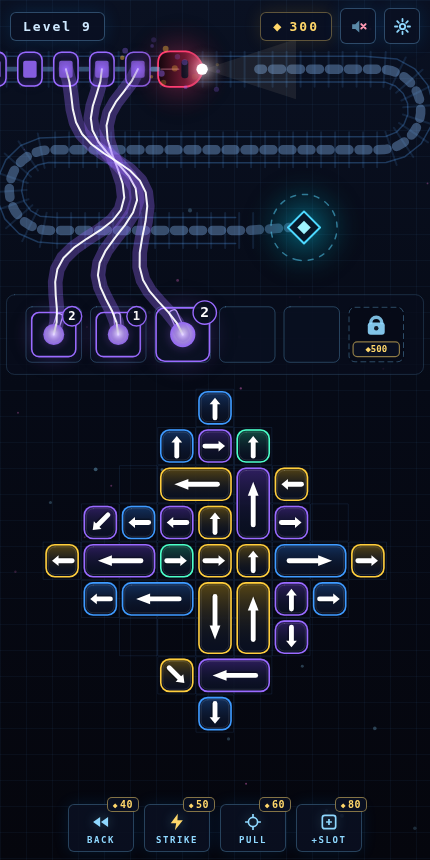
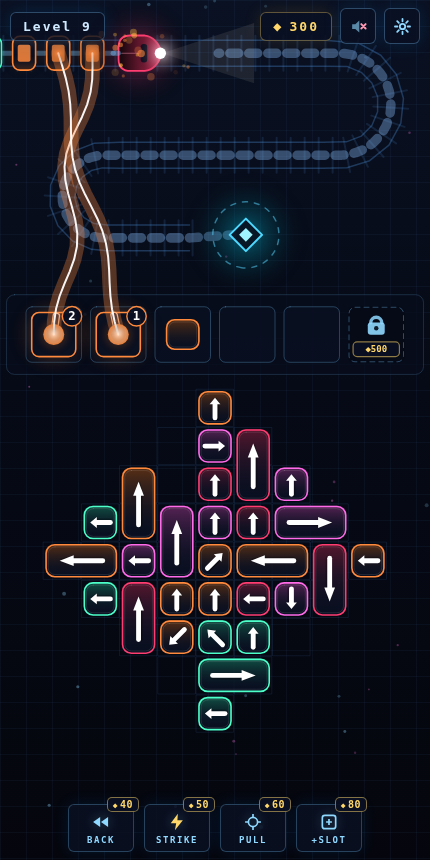
Randomize track layout per level; calmer laser sway
Each level now builds a fresh rail layout instead of the fixed
serpentine: a normalized track spec (3-4 rows with jittered heights,
random entry side, per-turn bulge positions, and a random core spot) is
generated at level start and mapped to pixels in buildPath, so a resize
keeps the same shape. Creep already scales with path length, so pacing
stays consistent; softened the high-level creep cap slightly to absorb
the added layout variance (bot curve: 100% to L28, 75% at 32, ~25% at
40+).

Laser wave amplitude roughly halved (len*0.13 -> 0.06, cap 0.7 -> 0.32
thick) so beams read as a gentle sway that settles straight, not a big
squiggle.

Claude-Session: https://claude.ai/code/session_01FGeGpZbh5voJFieR2Ls51R

Changed region(s): [[0.0, 0.0302, 1.0, 0.4233], [0.0907, 0.4535, 0.907, 0.8767]]

diff --git a/index.html b/index.html
@@ -220,27 +220,50 @@ function drawGlow(x,y,r,color,alpha){
   ctx.globalAlpha=1;
 }
 
-// ---------- snake path (serpentine across the top area) ----------
+// ---------- track: a fresh randomized serpentine each level ----------
 let path = { pts:[], cum:[], len:1 };
+// normalized (0..1) spec, generated once per level so a resize keeps the layout
+function genTrack(){
+  const rows=randi(3,4);
+  const top=0.20, bot=0.84, ys=[];
+  for(let i=0;i<rows;i++) ys.push(top+(bot-top)*(i/(rows-1))+rand(-0.03,0.03));
+  const entryLeft=Math.random()<0.5;
+  const turns=[];
+  for(let i=0;i<rows-1;i++){
+    const rightSide = entryLeft ? (i%2===0) : (i%2===1);
+    turns.push(rightSide ? rand(0.74,0.90) : rand(0.10,0.26));
+  }
+  return { rows, ys, entryLeft, turns, endFrac:rand(0.34,0.68) };
+}
 function buildPath(){
-  const a=A.snake, mx=a.w*0.115, top=a.h*0.24, mid=a.h*0.52, bot=a.h*0.80;
-  const R1=(mid-top)/2, R2=(bot-mid)/2;
+  const a=A.snake, T=(G.track||(G.track=genTrack()));
   const raw=[];
   const seg=(x0,y0,x1,y1)=>{ const n=28; for(let i=0;i<=n;i++) raw.push([lerp(x0,x1,i/n), lerp(y0,y1,i/n)]); };
   const arc=(cx,cy,r,a0,a1)=>{ const n=24; for(let i=1;i<=n;i++){ const t=lerp(a0,a1,i/n); raw.push([cx+Math.cos(t)*r, cy+Math.sin(t)*r]); } };
-  // the path begins beyond the left edge so the body truly crawls in from offscreen
-  seg(-a.w*0.18, top, a.w-mx, top);
-  arc(a.w-mx, top+R1, R1, -Math.PI/2, Math.PI/2);
-  seg(a.w-mx, mid, mx, mid);
-  arc(mx, mid+R2, R2, -Math.PI/2, -Math.PI*1.5);
-  seg(mx, bot, a.w*0.60, bot);
+  const ys=T.ys.map(f=>f*a.h), turns=T.turns.map(f=>f*a.w);
+  let dirRight=T.entryLeft;
+  // the head begins well beyond the entry edge so the whole train crawls in
+  let curX = T.entryLeft ? -a.w*0.22 : a.w*1.22;
+  for(let i=0;i<T.rows;i++){
+    const y=ys[i];
+    if(i<T.rows-1){
+      const tx=turns[i], ny=ys[i+1], r=Math.abs(ny-y)/2, cy=(y+ny)/2;
+      seg(curX,y, tx,y);
+      if(dirRight) arc(tx,cy,r,-Math.PI/2, Math.PI/2);       // bulge right
+      else         arc(tx,cy,r,-Math.PI/2,-Math.PI*1.5);     // bulge left
+      curX=tx; dirRight=!dirRight;
+    } else {
+      seg(curX,y, T.endFrac*a.w, y);                          // last row ends at the core
+    }
+  }
   const pts=[], cum=[0]; let L=0;
   for(let i=0;i<raw.length;i++){
     if(i>0){ const dx=raw[i][0]-raw[i-1][0], dy=raw[i][1]-raw[i-1][1]; const d=Math.hypot(dx,dy); if(d<0.4) continue; L+=d; cum.push(L); }
     pts.push(raw[i]);
   }
+  // entryS = arc-length where the head first comes on screen (train emerges from offscreen)
   let entryS=0;
-  for(let i=0;i<pts.length;i++) if(pts[i][0]>=0){ entryS=cum[i]; break; }
+  for(let i=0;i<pts.length;i++) if(pts[i][0]>=0 && pts[i][0]<=a.w){ entryS=cum[i]; break; }
   path={pts,cum,len:L,entryS};
 }
 function posAt(s){
@@ -255,7 +278,7 @@ function posAt(s){
 
 // ---------- level generation ----------
 function targetCells(L){ return L>=14 ? 52-randi(0,5) : 13+3*L; }
-function creepFor(L){ return 0.020 + Math.min(0.042, 0.0014*L); }
+function creepFor(L){ return 0.020 + Math.min(0.037, 0.0013*L); }
 function pushFactorFor(L){ return Math.max(0.34, 1.10-0.020*L); }
 function nColorsFor(L){ return L>=24 ? 7 : clamp(3+Math.floor(L/5),3,6); }
 function diagChanceFor(L){ return L<9 ? 0 : Math.min(0.35, 0.04+(L-8)*0.03); }
@@ -413,6 +436,7 @@ const G = {
   crawlT:0,
   front:0, frontTarget:0,  // dragon head position along the path (px of arc length)
   startFront:0, creep:0, graceT:0,
+  track:null,
   segId:1,
   windCombo:0,
   tempSlot:false, usedSlotBoost:false, usedAnyBoost:false,
@@ -474,6 +498,7 @@ function startLevel(){
   G.tempSlot=false; G.usedSlotBoost=false; G.usedAnyBoost=false;
   G.windCombo=0; G.particles.length=0; G.confetti.length=0;
   G.phase='play'; G.reviveCount=0;
+  G.track=genTrack(); buildPath();   // fresh randomized rail layout for this level
   layoutBoard();
   G.front=G.frontTarget=G.startFront;
   G.creep=path.len*creepFor(G.level)*rand(0.95,1.05);
@@ -1280,7 +1305,7 @@ function draw(){
     const t=clamp(p.shot.t,0,1);
     const dx=at.x-sp.x, dy=at.y-sp.y, len=Math.hypot(dx,dy)||1;
     const nx=-dy/len, ny=dx/len;                 // perpendicular to the beam
-    const amp=Math.min(len*0.13, G.thick*0.7)*Math.sin(t*Math.PI); // swells then settles
+    const amp=Math.min(len*0.06, G.thick*0.32)*Math.sin(t*Math.PI); // subtle sway, settles to straight
     const steps=22;
     // two passes: fat colored glow, then a bright white core
     for(const pass of [{w:Math.max(5,G.thick*0.34),a:0.32,c:C.m},{w:2,a:0.95,c:'#fff'}]){
